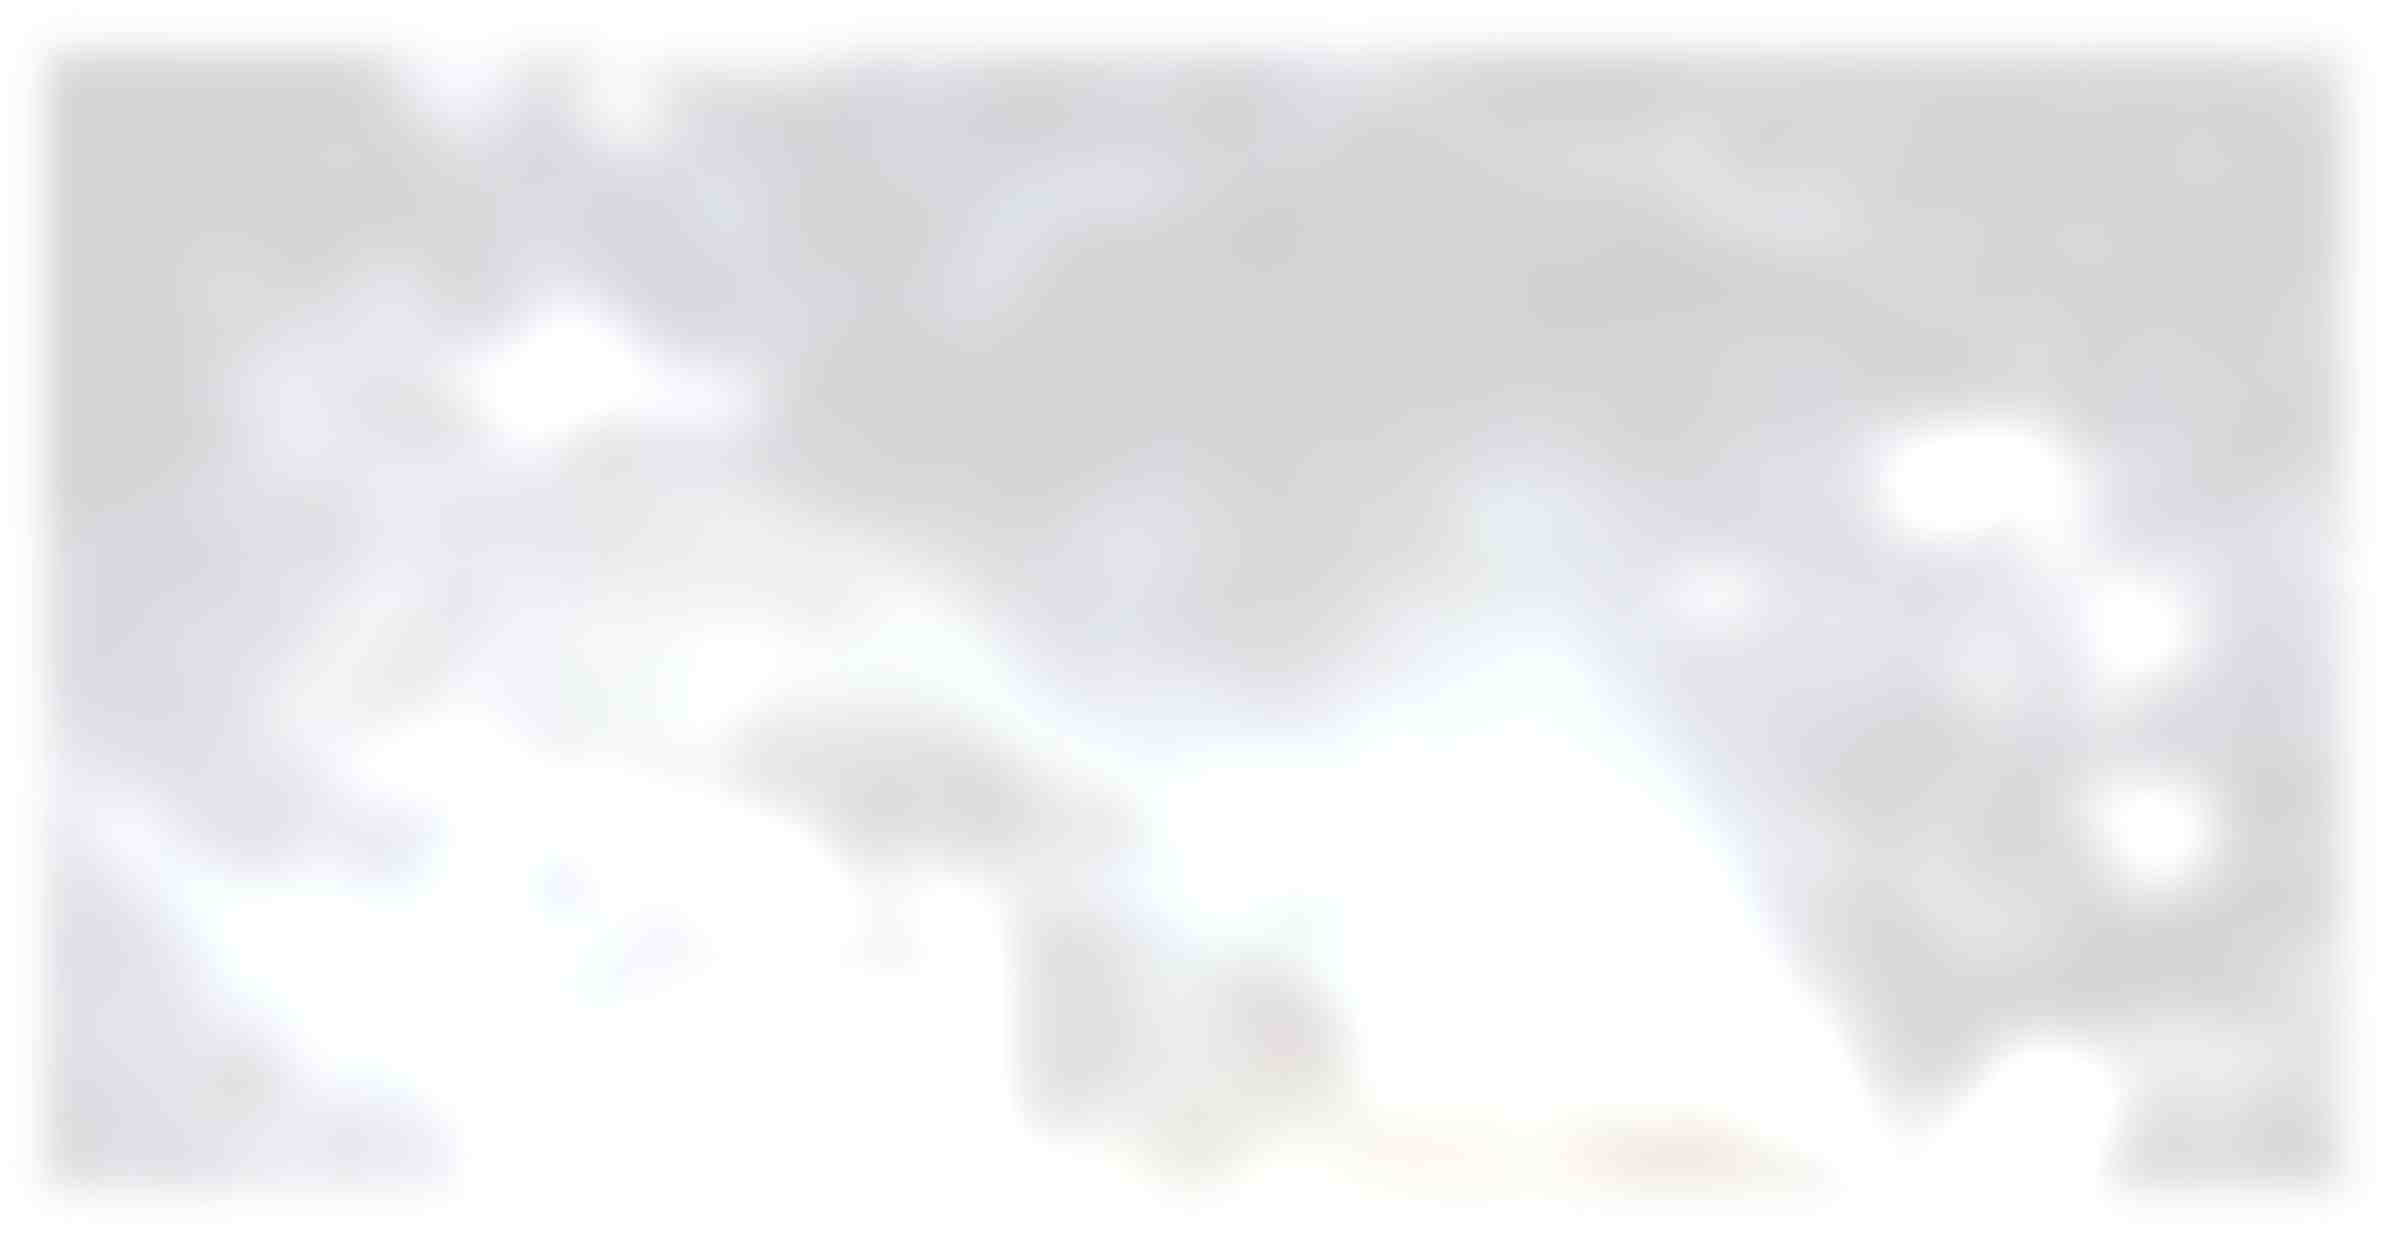
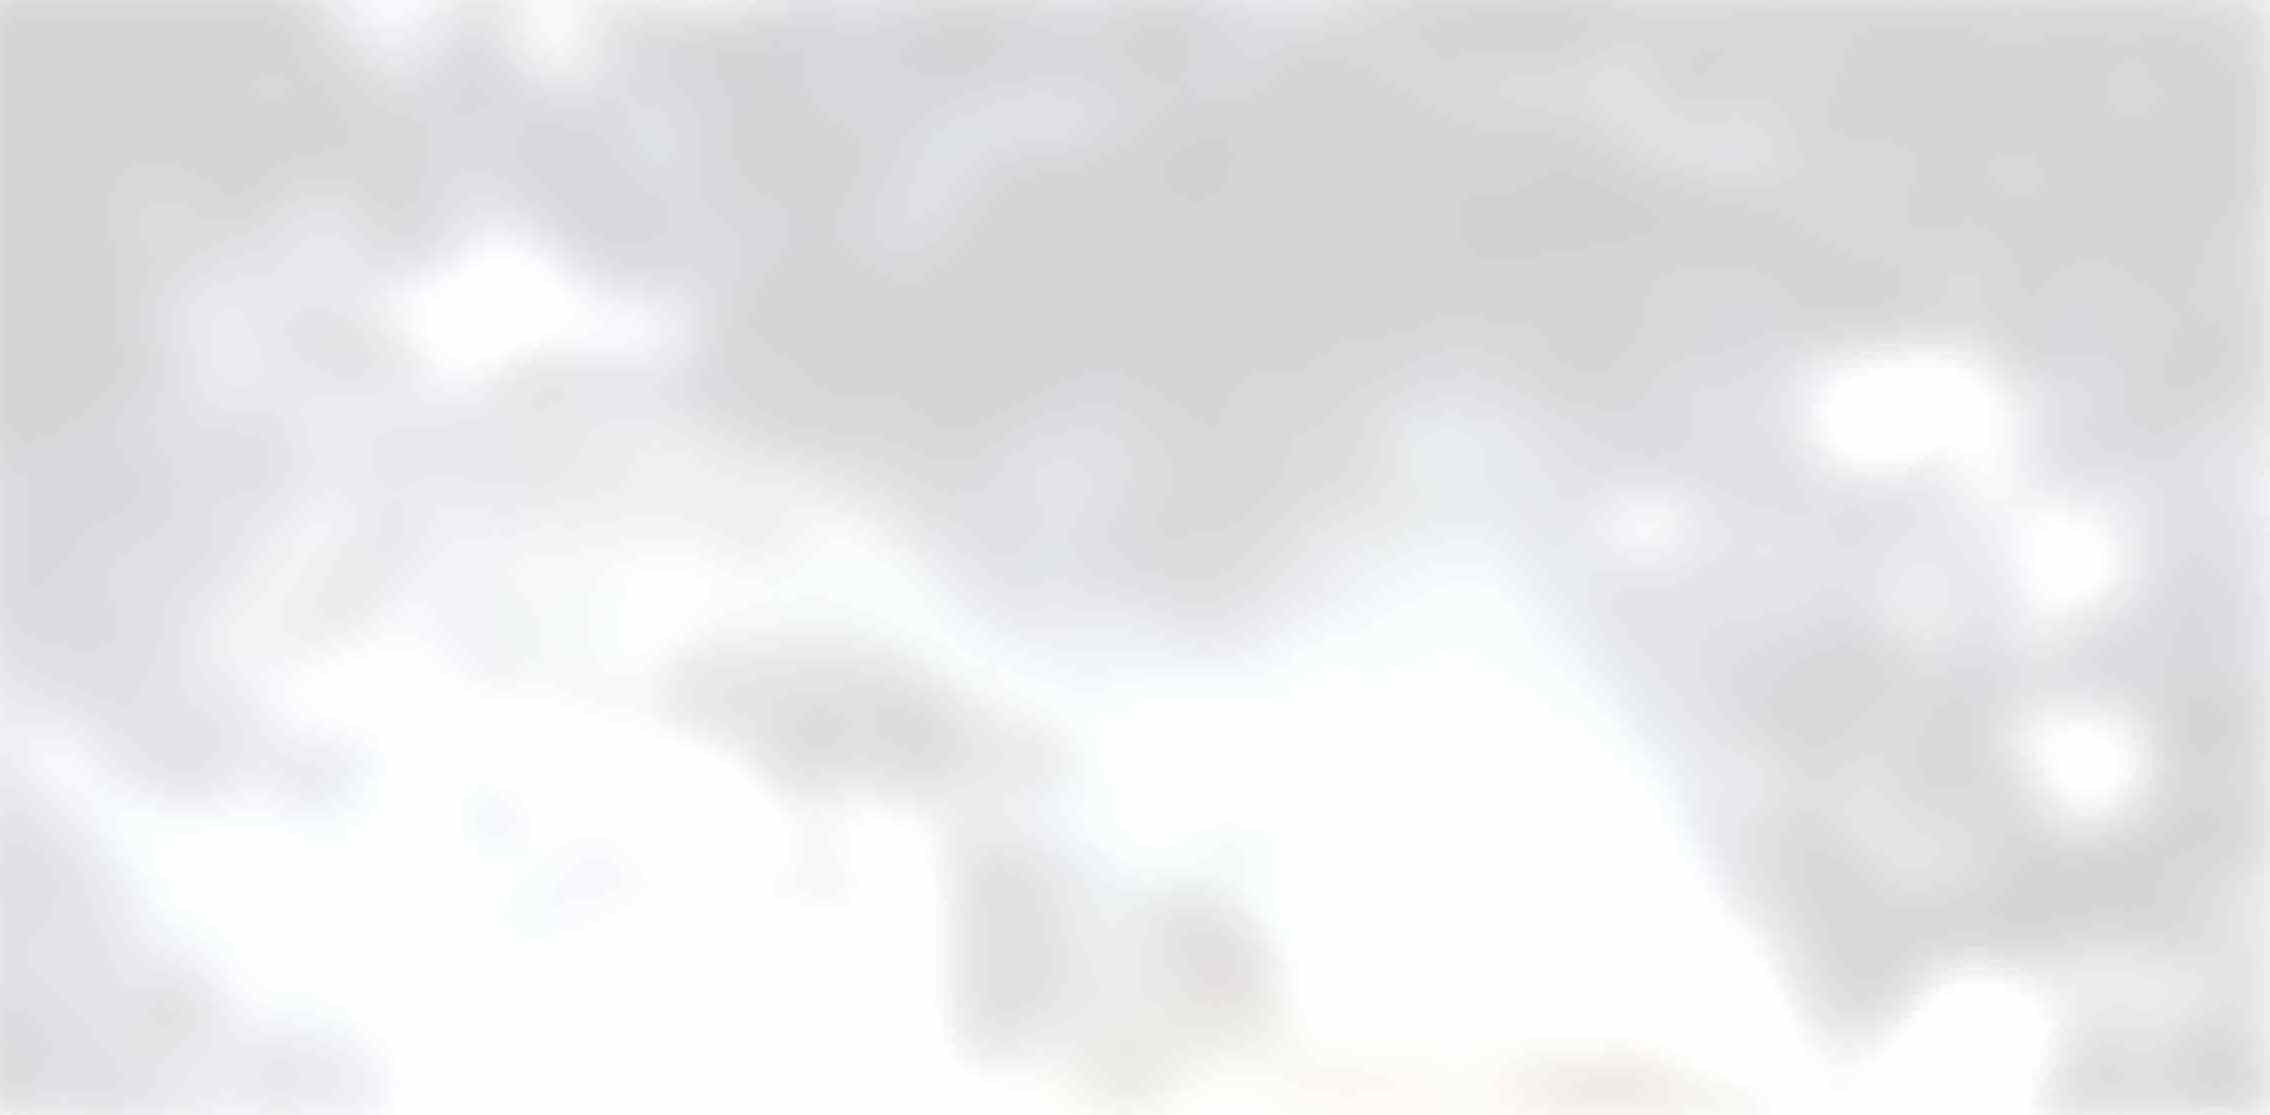
Design tweaks

diff --git a/index.html b/index.html
@@ -12,7 +12,7 @@ TODO:
     <meta name="description" content="brief bio and nodes">
     <meta name="author" content="Cody Albert">
     <meta charset="utf-8">
-    <meta content="width=device-width, initial-scale=1.0, max-scale=1.0" name="viewport">
+    <meta content="width=device-width, initial-scale=1, maximum-scale=1.0" name="viewport">
     <meta http-equiv="X-UA-Compatible" content="IE=edge">
     <meta name="apple-mobile-web-app-capable" content="yes">
     <meta name="robots" content="index, follow">

diff --git a/about.html b/about.html
@@ -4,7 +4,7 @@
     <meta name="description" content="brief bio and nodes">
     <meta name="author" content="Cody Albert">
     <meta charset="utf-8">
-    <meta content="width=device-width, initial-scale=1.0, max-scale=1.0" name="viewport">
+    <meta content="width=device-width, initial-scale=1, maximum-scale=1.0" name="viewport">
     <meta http-equiv="X-UA-Compatible" content="IE=edge">
     <meta name="apple-mobile-web-app-capable" content="yes">
     <meta name="robots" content="index, follow">

diff --git a/inspiration.html b/inspiration.html
@@ -4,7 +4,7 @@
     <meta name="description" content="brief bio and nodes">
     <meta name="author" content="Cody Albert">
     <meta charset="utf-8">
-    <meta content="width=device-width, initial-scale=1.0, max-scale=1.0" name="viewport">
+    <meta content="width=device-width, initial-scale=1, maximum-scale=1.0" name="viewport">
     <meta http-equiv="X-UA-Compatible" content="IE=edge">
     <meta name="apple-mobile-web-app-capable" content="yes">
     <meta name="robots" content="index, follow">

diff --git a/projects.html b/projects.html
@@ -4,7 +4,7 @@
     <meta name="description" content="brief bio and nodes">
     <meta name="author" content="Cody Albert">
     <meta charset="utf-8">
-    <meta content="width=device-width, initial-scale=1.0, max-scale=1.0" name="viewport">
+    <meta content="width=device-width, initial-scale=1, maximum-scale=1.0" name="viewport">
     <meta http-equiv="X-UA-Compatible" content="IE=edge">
     <meta name="apple-mobile-web-app-capable" content="yes">
     <meta name="robots" content="index, follow">

diff --git a/css/style.css b/css/style.css
@@ -3,7 +3,7 @@
   margin: 0;
 }
 body {
-  background: url(../images/background.png) no-repeat center fixed; 
+  background: url(../images/background.jpg) no-repeat center fixed; 
   background-color: rgba(200, 201, 201, 0.25);
   -webkit-background-size: cover;
   -moz-background-size: cover;
